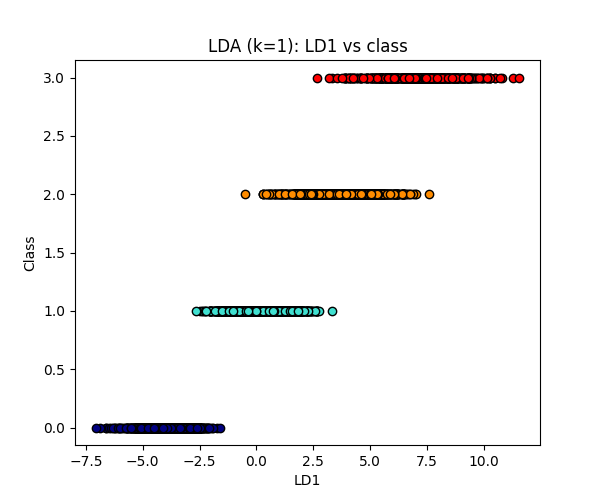
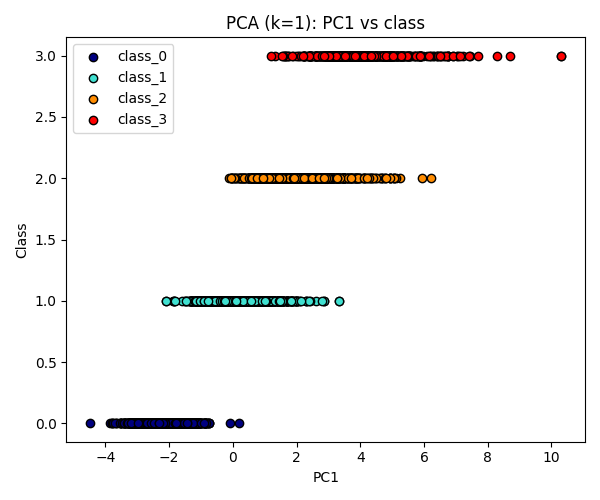
Feature engineering plot integrated

diff --git a/src/feature_engineering.py b/src/feature_engineering.py
@@ -14,8 +14,9 @@ import logging
 import os
 
 # Create Log directory
-log_dir='../logs'
-os.makedirs(log_dir,exist_ok=True)
+
+log_dir='logs'
+# os.makedirs(log_dir,exist_ok=True)
 
 #Create Logger
 logger=logging.getLogger('feature_engineering')
@@ -36,10 +37,10 @@ console_handler.setFormatter(log_formatter)
 file_handler.setFormatter(log_formatter)
 
 #crete result directory to save all results
-result_dir='../result'
+result_dir='result'
 os.makedirs(result_dir,exist_ok=True)
 results_file_path=os.path.join(result_dir,'feature_engineering_result.txt')
-
+open(results_file_path, 'w').close()
 #craete plot directory to save the plots
 plots_dir=os.path.join(result_dir,'feature_engineering_plots')
 os.makedirs(plots_dir,exist_ok=True)
@@ -79,14 +80,12 @@ def feature_imp_score(i,X,y):
     plt.bar(feature_imp_scores_sorted["Features"], feature_imp_scores_sorted["fea_imp_score"])
     plt.xlabel("Features")
     plt.ylabel("Feature Importance Score")
-    plt.title("Feature Importance Plot")
+    plt.title(f"Feature Importance Plot k={i}")
     plt.xticks(rotation=45)
     plt.tight_layout()
-    plt.show()
-    
     fig_path = os.path.join(plots_dir, f'feature_importance_top_{i}.png')
     plt.savefig(fig_path)
-    plt.close()
+ 
 
     model=SelectFromModel(classifier,prefit=True)
     X_new=model.transform(X)
@@ -99,8 +98,7 @@ def pca(k,X,y):
     nComps=k
     X_scaled = StandardScaler().fit_transform(X)
     pca = PCA(n_components=nComps)
-    pca.fit(X_scaled)
-    X_pca_k=pca.transform(X_scaled)
+    X_pca_k=pca.fit_transform(X_scaled,y)
     var_ratio = pca.explained_variance_ratio_
     plt.figure(figsize=(6, 5)) 
     classes = np.unique(y)
@@ -120,6 +118,11 @@ def pca(k,X,y):
         plt.xlabel('PC1')
         plt.ylabel('Class')
         plt.title('PCA (k=1): PC1 vs class')
+        plt.legend()
+        plt.tight_layout()
+        scatter_path = os.path.join(plots_dir, f'pca_k_{k}_scatter.png')
+        plt.savefig(scatter_path)
+        
 
     elif k==2:
         # 2D case: PC1 vs PC2 colored by class (like your screenshot)
@@ -135,6 +138,11 @@ def pca(k,X,y):
         plt.xlabel('PC1')
         plt.ylabel('PC2')
         plt.title(f'PCA (k={k}): PC1 vs PC2')
+        plt.legend()
+        plt.tight_layout()
+        scatter_path = os.path.join(plots_dir, f'pca_k_{k}_scatter.png')
+        plt.savefig(scatter_path)
+      
     else:
         fig = plt.figure(figsize=(7, 6))
         ax = fig.add_subplot(111, projection='3d')
@@ -154,7 +162,9 @@ def pca(k,X,y):
         ax.set_title('PCA (k=3): PC1 vs PC2 vs PC3')
         ax.legend()
         plt.tight_layout()
-        plt.show()
+        scatter_path = os.path.join(plots_dir, f'pca_k_{k}_scatter_3d.png')
+        plt.savefig(scatter_path)
+       
 
 
 
@@ -163,13 +173,17 @@ def pca(k,X,y):
     components = np.arange(1, len(var_ratio) + 1)
     plt.bar(components, var_ratio)
     plt.xticks(components)
-    plt.xlabel('Principal Component')
+    plt.xlabel('PCA')
     plt.ylabel('Explained Variance Ratio')
     plt.title(f'PCA Explained Variance Ratio (k={k})')
     plt.tight_layout()
-    plt.show()
+
+    var_path = os.path.join(plots_dir, f'PCA_k_{k}_var_ratio.png')
+    plt.savefig(var_path)
+
     log_insight(f'PCA (k={k}) explained variance ratio: {var_ratio}')
-    return X_pca_k
+
+    
 
     return X_pca_k
  
@@ -179,7 +193,7 @@ def lda(k,X,y):
     nComps = k
     X_scaled = StandardScaler().fit_transform(X)
     lda = LDA(n_components=nComps)
-    X_lda_k = lda.fit_transform(X_scaled, y)
+    X_lda_k = lda.fit_transform(X_scaled,y)
     var_ratio = lda.explained_variance_ratio_
 
     plt.figure(figsize=(6, 5))
@@ -199,9 +213,11 @@ def lda(k,X,y):
         plt.xlabel('LD1')
         plt.ylabel('Class')
         plt.title('LDA (k=1): LD1 vs class')
-        scatter_path = os.path.join(plots_dir, f'pca_k_{k}_scatter.png')
+        plt.legend()
+        plt.tight_layout()
+        scatter_path = os.path.join(plots_dir, f'lda_k_{k}_scatter.png')
         plt.savefig(scatter_path)
-        plt.close()
+     
 
     elif k == 2:
         for cls, color in zip(classes, colors):
@@ -216,9 +232,11 @@ def lda(k,X,y):
         plt.xlabel('LD1')
         plt.ylabel('LD2')
         plt.title(f'LDA (k={k}): LD1 vs LD2')
-        scatter_path = os.path.join(plots_dir, f'pca_k_{k}_scatter.png')
+        plt.legend()
+        plt.tight_layout()
+        scatter_path = os.path.join(plots_dir, f'lda_k_{k}_scatter.png')
         plt.savefig(scatter_path)
-        plt.close()
+       
     else:
         fig = plt.figure(figsize=(7, 6))
         ax = fig.add_subplot(111, projection='3d')
@@ -238,10 +256,9 @@ def lda(k,X,y):
         ax.set_title('LDA (k=3): LD1 vs LD2 vs LD3')
         ax.legend()
         plt.tight_layout()
-        plt.show()
-        scatter_path = os.path.join(plots_dir, f'pca_k_{k}_scatter_3d.png')
+        scatter_path = os.path.join(plots_dir, f'lda_k_{k}_scatter_3d.png')
         plt.savefig(scatter_path)
-        plt.close()
+        
 
     plt.figure(figsize=(5, 4))
     components = np.arange(1, len(var_ratio) + 1)
@@ -251,10 +268,10 @@ def lda(k,X,y):
     plt.ylabel('Explained Variance Ratio')
     plt.title(f'LDA Explained Variance Ratio (k={k})')
     plt.tight_layout()
-    plt.show()
-    var_path = os.path.join(plots_dir, f'pca_k_{k}_var_ratio.png')
+  
+    var_path = os.path.join(plots_dir, f'lda_k_{k}_var_ratio.png')
     plt.savefig(var_path)
-    plt.close()
+  
     log_insight(f'LDA (k={k}) explained variance ratio: {var_ratio}')
 
     return X_lda_k

diff --git a/src/data_preprocessing.py b/src/data_preprocessing.py
@@ -5,8 +5,8 @@ from data_import import load_data
 
 
 # Create Log directory
-log_dir='../logs'
-os.makedirs(log_dir,exist_ok=True)
+log_dir='logs'
+# os.makedirs(log_dir,exist_ok=True)
 
 #Create Logger
 logger=logging.getLogger('data_preprocess')

diff --git a/src/data_import.py b/src/data_import.py
@@ -3,7 +3,7 @@ import logging
 import os
 
 # Create Log directory
-log_dir='../logs'
+log_dir='logs'
 os.makedirs(log_dir,exist_ok=True)
 
 #Create Logger
